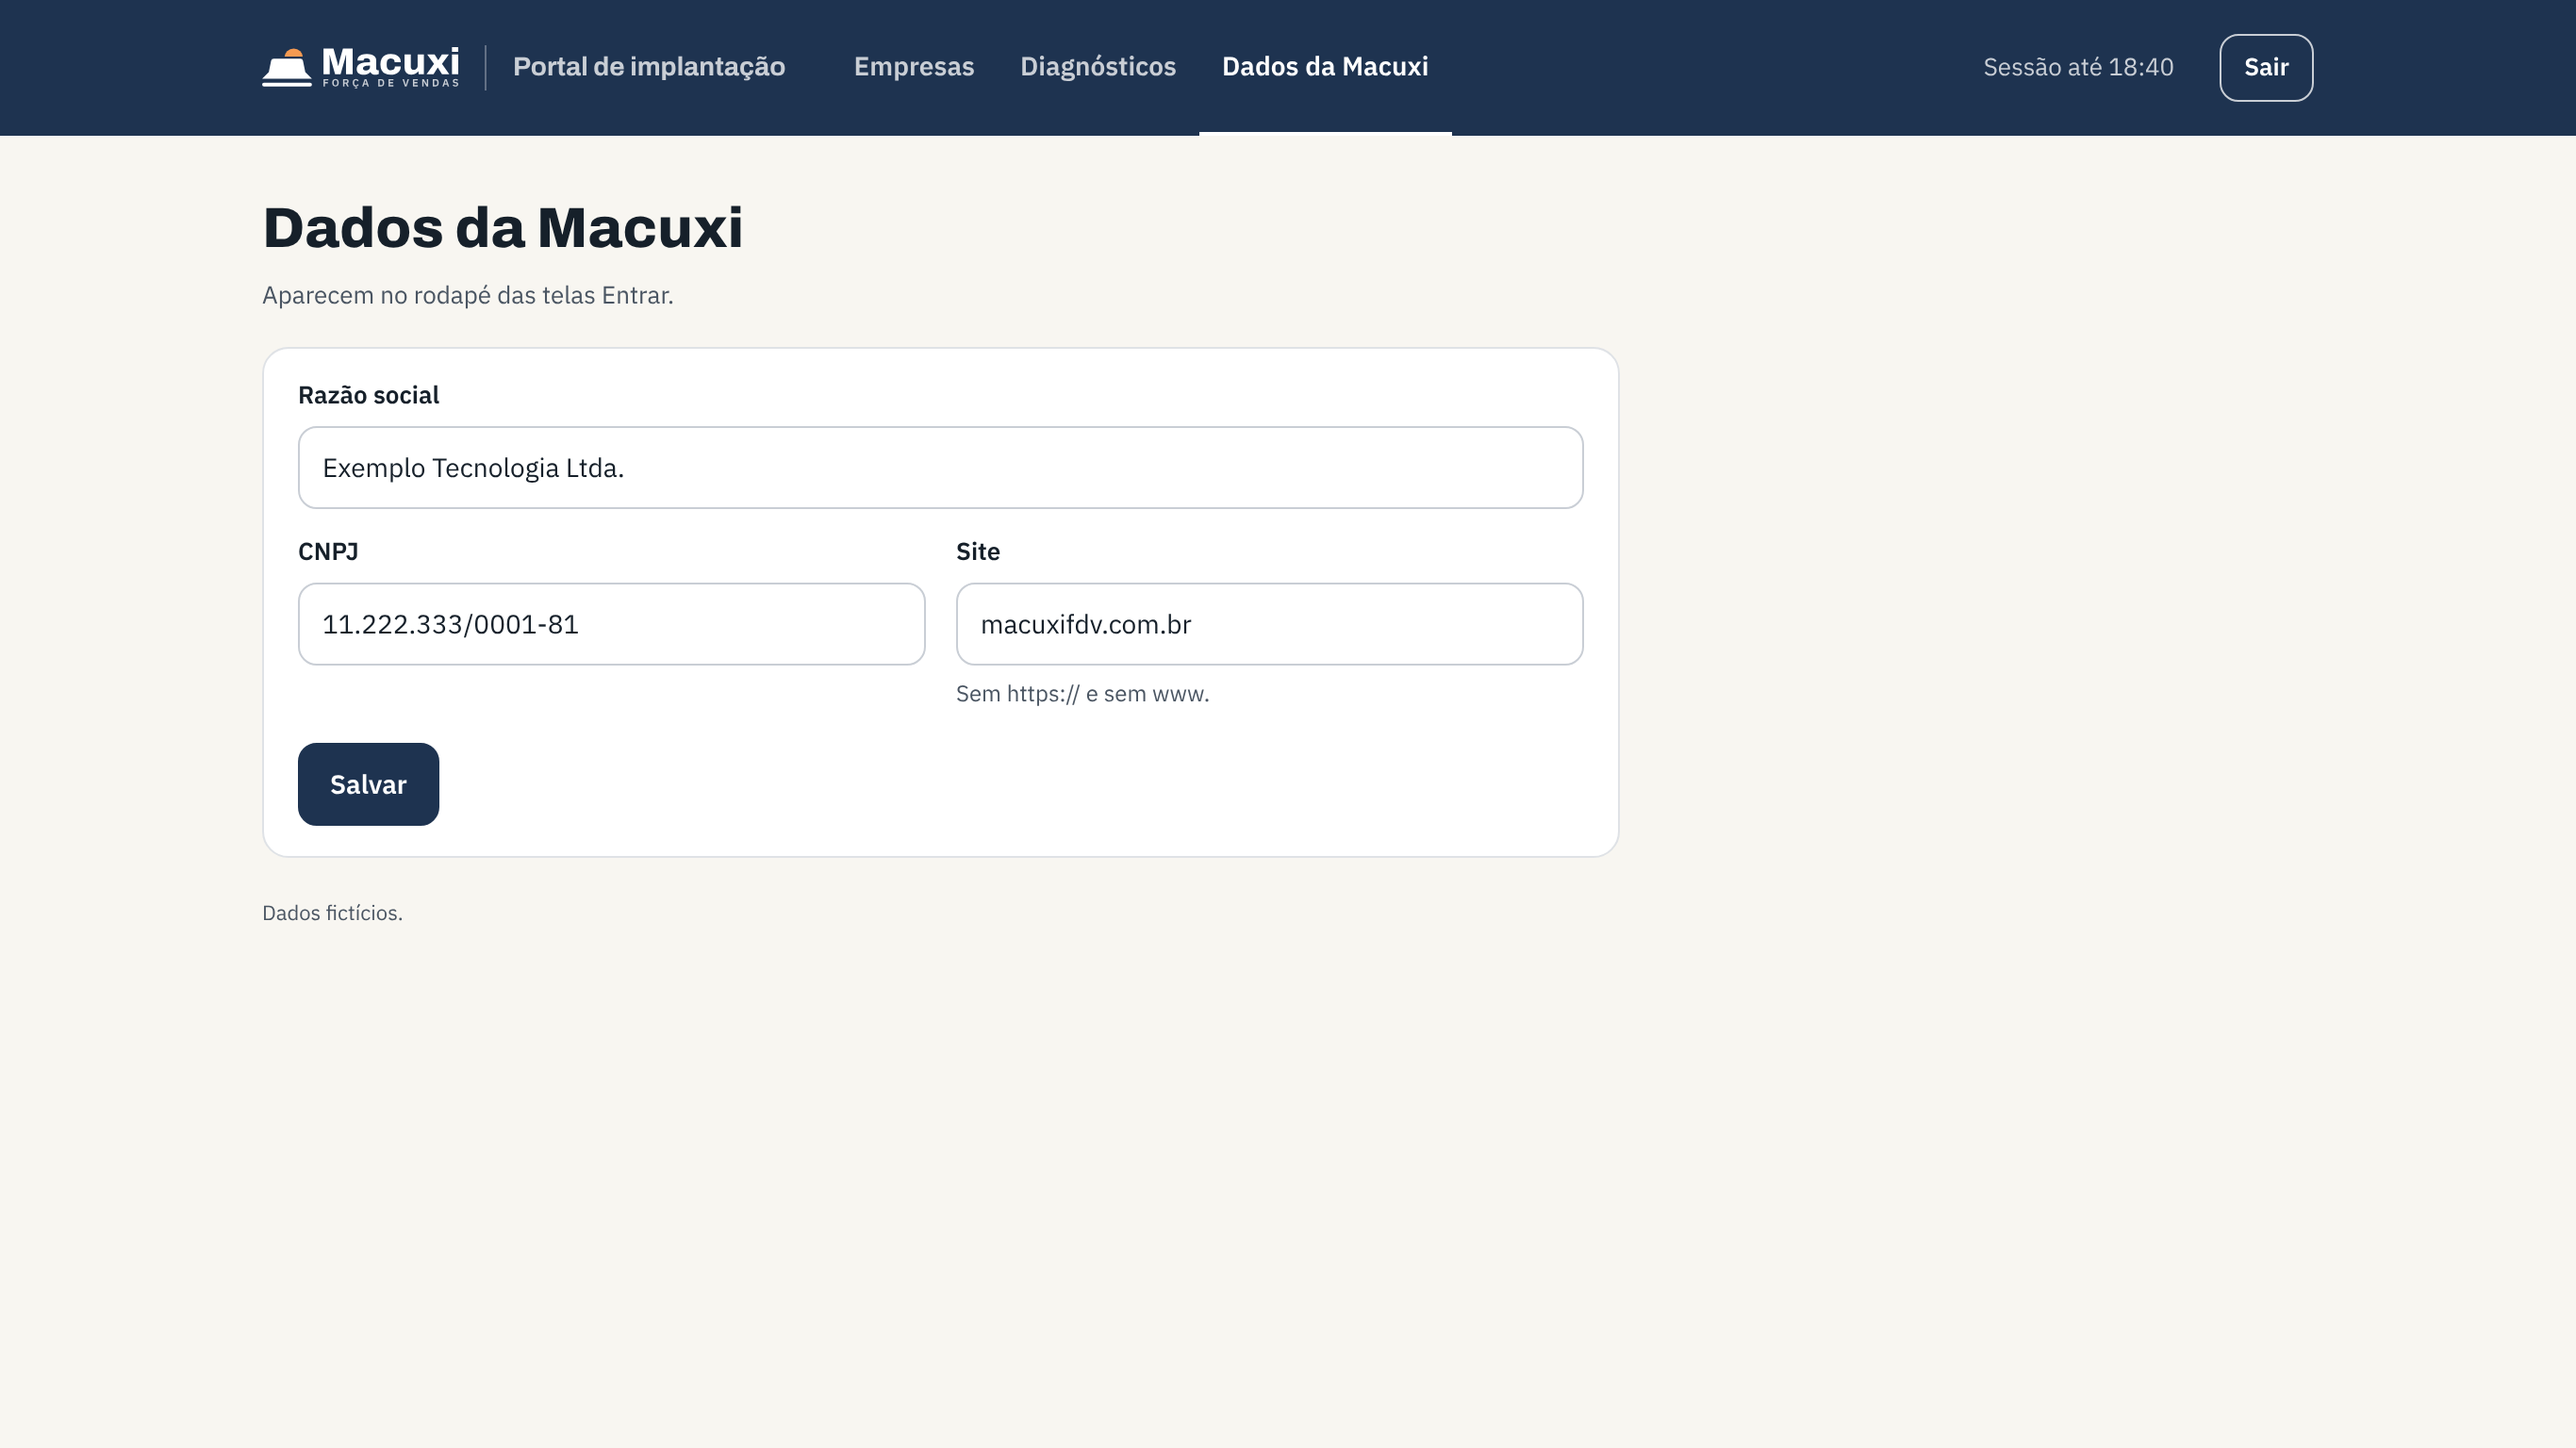
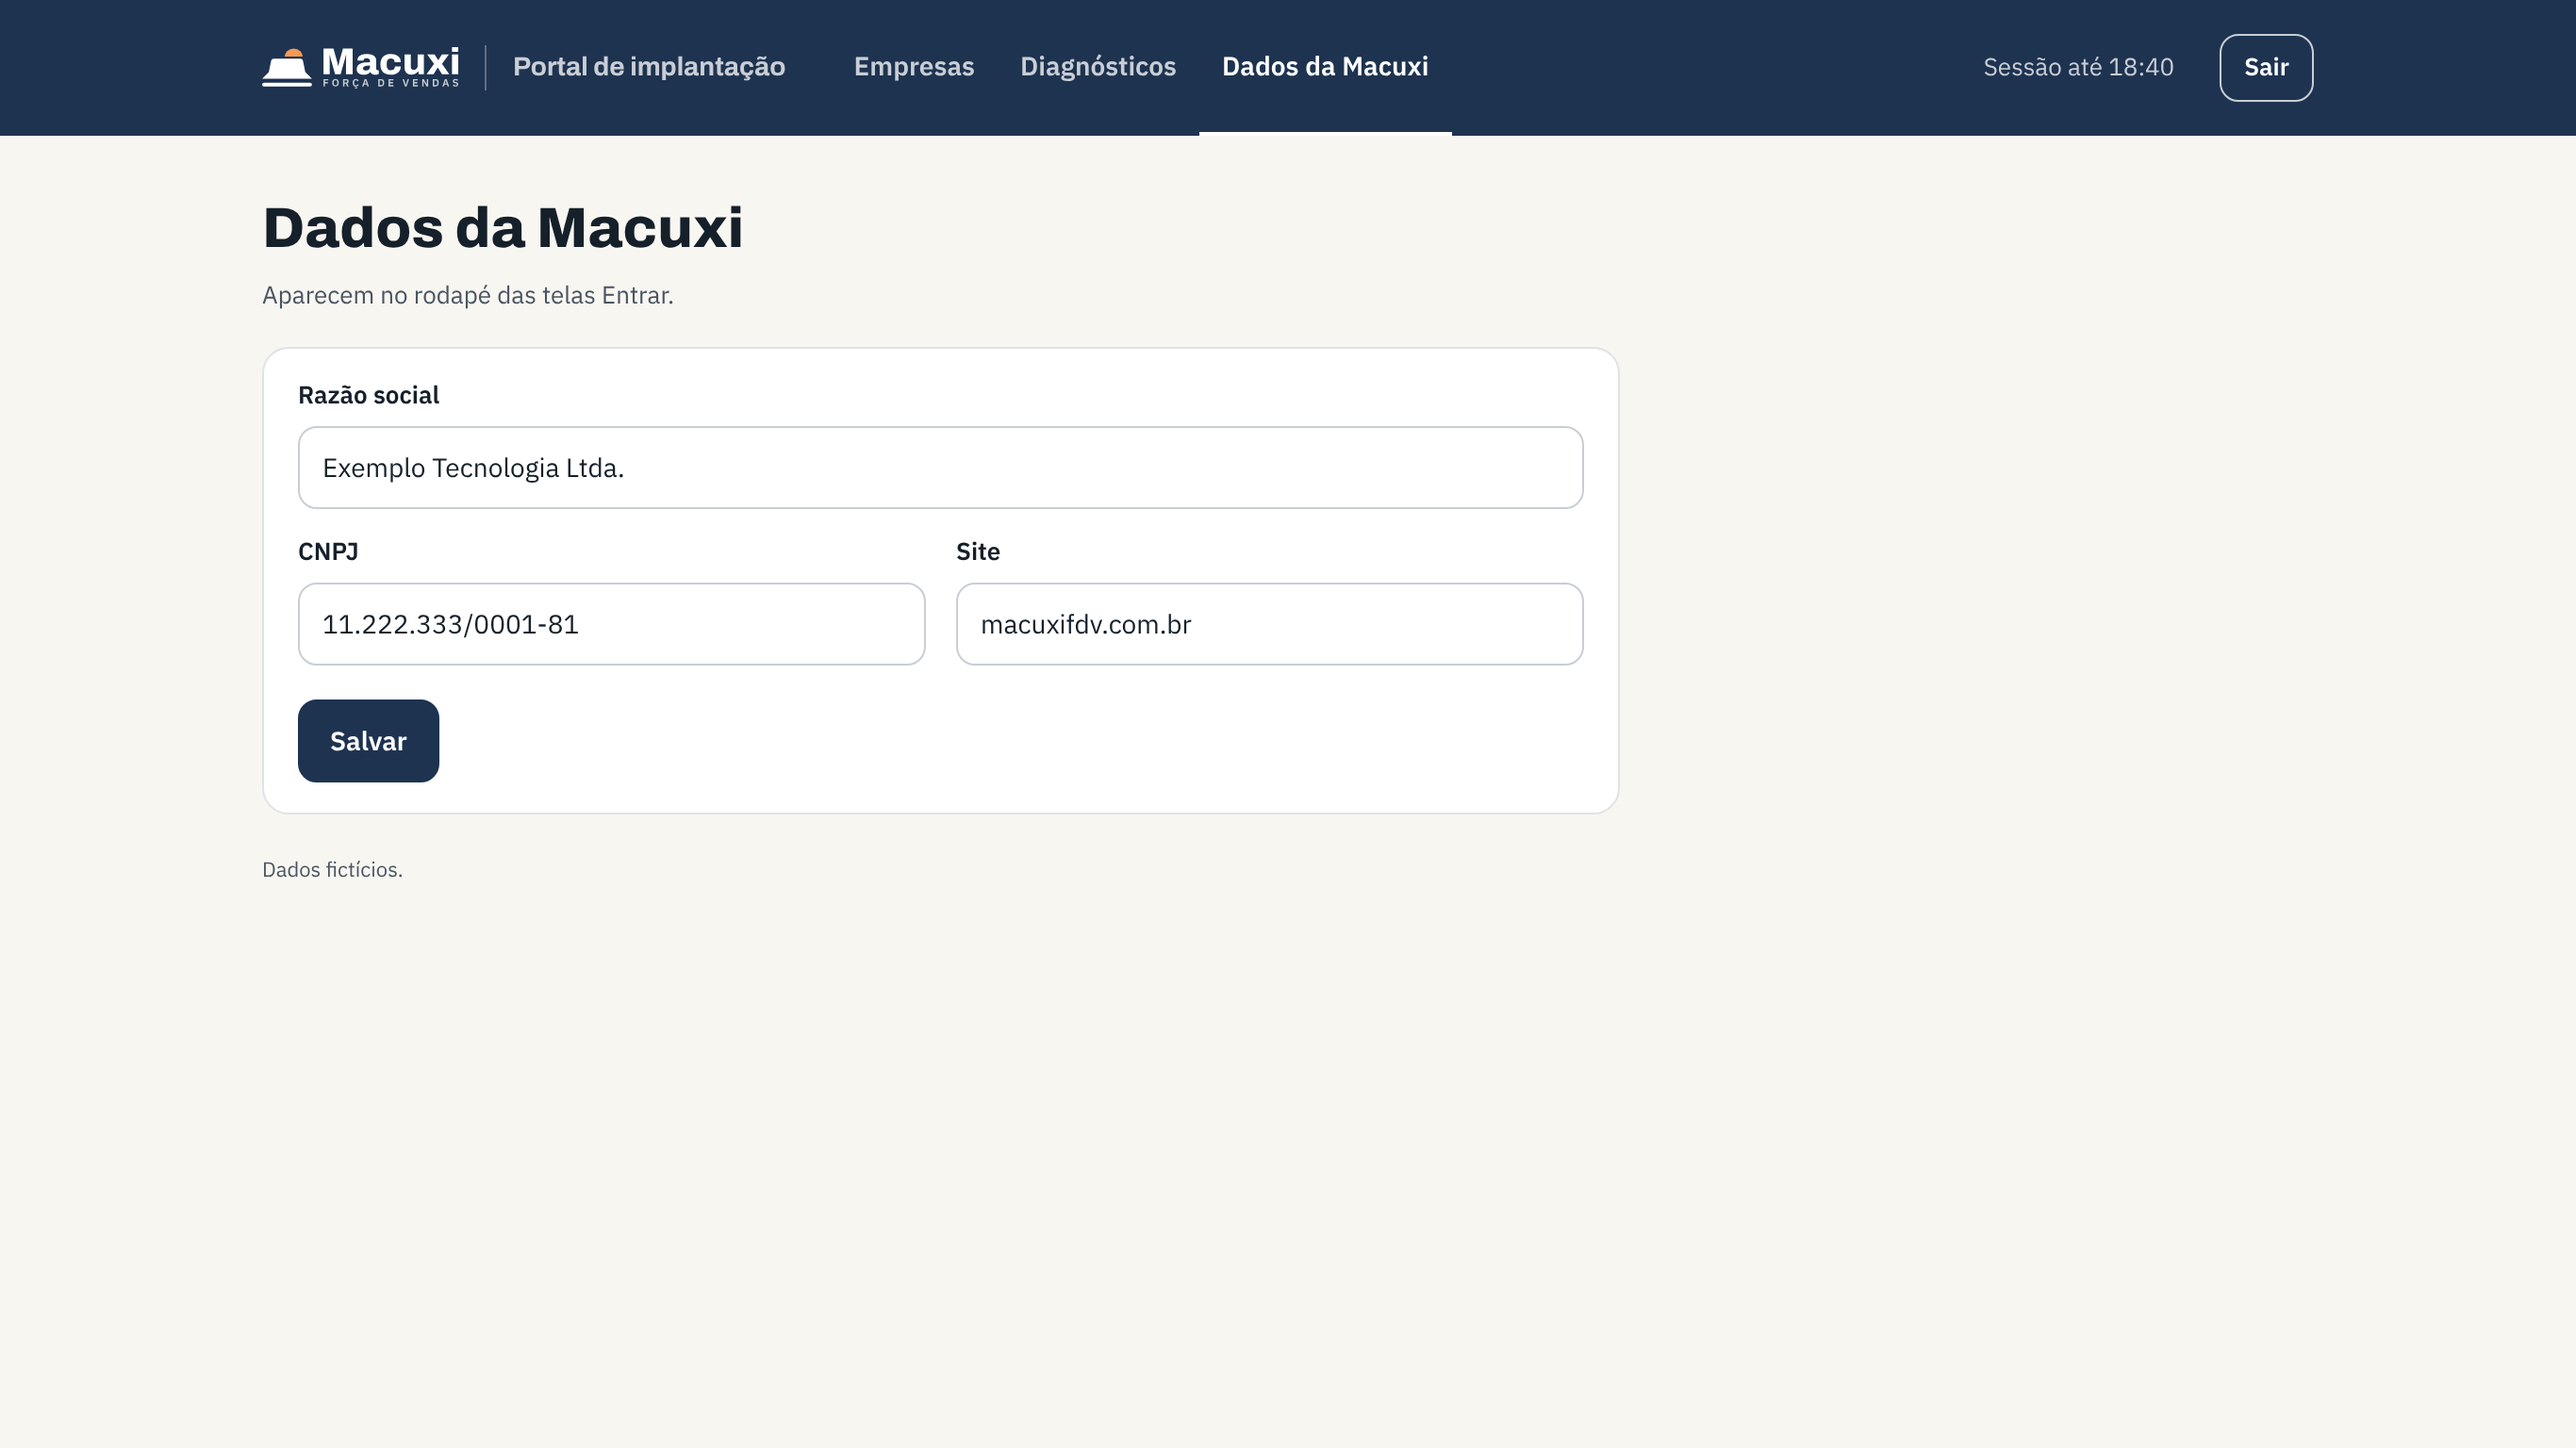
docs(design): rodapé legal sem ajuda no campo Site e rota pública sem ETag (RD-0381, RD-0382)
- Tira a ajuda "Sem https:// e sem www." do campo Site (doc e simulação) e refaz o PNG.
- §3.4: rota pública só com Cache-Control (max-age=300, stale-while-revalidate=86400); sai o ETag/304.

Agente: designer-ux
Claude-Session: https://claude.ai/code/session_0157qAhkBGHqBHZcVGALo7SR

Changed region(s): [[0.0933, 0.4688, 0.1867, 0.6562], [0.3734, 0.4688, 0.4667, 0.5]]

diff --git a/docs/design/telas/rodape-legal-config-dados.html b/docs/design/telas/rodape-legal-config-dados.html
@@ -28,7 +28,7 @@
     <div class="campos">
       <div class="campo largo"><label>Razão social</label><div class="inp">Exemplo Tecnologia Ltda.</div></div>
       <div class="campo"><label>CNPJ</label><div class="inp">11.222.333/0001-81</div></div>
-      <div class="campo"><label>Site</label><div class="inp">macuxifdv.com.br</div><div class="ajuda">Sem https:// e sem www.</div></div>
+      <div class="campo"><label>Site</label><div class="inp">macuxifdv.com.br</div></div>
     </div>
     <div class="acoes"><span class="btn p">Salvar</span></div>
   </div>

diff --git a/docs/design/telas/rodape-legal.md b/docs/design/telas/rodape-legal.md
@@ -103,7 +103,7 @@ quatro superfícies. Não ficam constantes no código.
 |---|---|---|
 | Razão social (largura toda) | opcional; sem espaços nas pontas; até 120 caracteres; vazio = sem valor | "Use até 120 caracteres." |
 | CNPJ | opcional; máscara `00.000.000/0000-00` enquanto digita (a `mascararCnpj` do passo Empresa); confere os dígitos verificadores (`cnpjComDigitosValidos`); sem consulta à Receita; vazio = sem valor | "CNPJ inválido. Confira os 14 dígitos." (o texto do passo Empresa) |
-| Site | já vem com `macuxifdv.com.br`; ao sair do campo tira `https://`, `http://`, `www.` e a barra final; só o domínio; vazio ao salvar volta para `macuxifdv.com.br`. Ajuda: "Sem https:// e sem www." | "Use só o endereço, ex.: macuxifdv.com.br." |
+| Site | já vem com `macuxifdv.com.br`; ao sair do campo tira `https://`, `http://`, `www.` e a barra final; só o domínio; vazio ao salvar volta para `macuxifdv.com.br`. | "Use só o endereço, ex.: macuxifdv.com.br." |
 
 - **Botão:** um só, "Salvar" (principal), desabilitado enquanto nada mudou; no envio, "Salvando…". Deu certo: aviso no
   rodapé "Dados salvos.". Erro de rede ou do servidor: `ErrorBlock` do kit com "Tentar de novo", e os campos guardam o
@@ -146,7 +146,7 @@ quatro superfícies. Não ficam constantes no código.
 ### 3.4 Rotas (engenheiro-software, `apps/api/src/dados-legais.ts`, registrada no `app.ts` como a `/v1/saude`)
 
 - `GET /v1/publico/dados-legais`: **sem login e sem tenant**, porque a tela Entrar vem antes do login. Responde
-  `DadosLegaisSchema` com `Cache-Control: public, max-age=300, stale-while-revalidate=86400` e `ETag` (304); cache em
+  `DadosLegaisSchema` com `Cache-Control: public, max-age=300, stale-while-revalidate=86400`; cache em
   memória de 60 s na API; limite por IP como as outras rotas sem login. Banco fora: 503, e o cliente usa o próprio
   cache.
 - `GET` e `PUT /v1/plataforma/dados-legais`: token do portal, só super-admin (403 para o admin do cliente). O `PUT`
